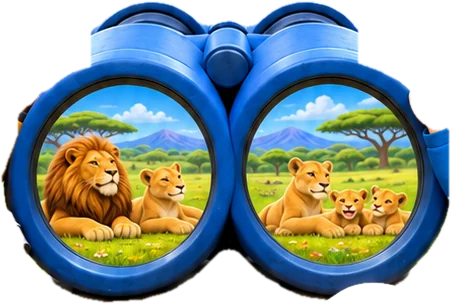
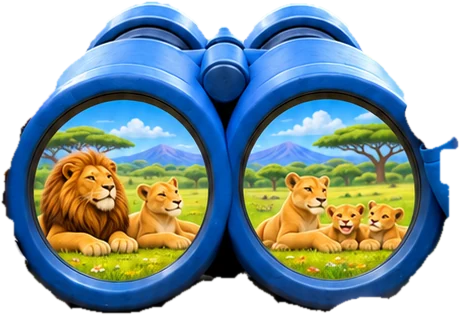
双眼鏡の切り抜きを縁に沿わせて作り直す: 奥の筒の上が途中で縦に切れていて、大きくなるたびに下の絵の双眼鏡が段とずれになって見えていた。手・帽子・袖は別の層にして動かさずに上へ重ねる（レンズの前の帽子も。レンズの絵の切り欠きマスクはやめる）

diff --git a/src/style.css b/src/style.css
@@ -317,14 +317,14 @@ button {
   /* スマホ横・PC（16:9） */
   --kv: url('/home/kv-phone-landscape.webp');
   --kv-ar: 1.7768;
-  /* 絵から切り抜いた双眼鏡（絵の幅・高さに対する割合）と、その中のレンズ（双眼鏡の幅・高さに対する割合） */
+  /* 絵から双眼鏡の縁に沿って切り抜いた双眼鏡（絵の幅・高さに対する割合）と、その中のレンズ（双眼鏡の幅・高さに対する割合）。
+     双眼鏡にかかる手・帽子・袖は別に切り抜き、動かさずに上へ重ねる（--front） */
   --bino: url('/home/kv-phone-landscape-bino.webp');
-  --bino-x: 30.38%; --bino-y: 41.45%; --bino-w: 39.47%; --bino-h: 39.53%;
-  --lens-l-x: 6.21%; --lens-l-y: 21.51%; --lens-l-w: 39.09%; --lens-l-h: 69.09%;
-  --lens-r-x: 55.00%; --lens-r-y: 21.77%; --lens-r-w: 38.64%; --lens-r-h: 68.55%;
-  /* レンズの前に帽子がかかる絵では、その部分を切り欠く（白＝見せる） */
-  --lens-l-mask: none;
-  --lens-r-mask: none;
+  --bino-x: 30.44%; --bino-y: 39.96%; --bino-w: 39.41%; --bino-h: 41.02%;
+  --lens-l-x: 6.07%; --lens-l-y: 24.35%; --lens-l-w: 39.15%; --lens-l-h: 66.58%;
+  --lens-r-x: 54.93%; --lens-r-y: 24.61%; --lens-r-w: 38.69%; --lens-r-h: 66.06%;
+  --front: url('/home/kv-phone-landscape-front.webp');
+  --front-x: 34.69%; --front-y: 63.44%; --front-w: 35.11%; --front-h: 19.13%;
   position: fixed;
   inset: 0;
   z-index: 10;
@@ -343,10 +343,11 @@ button {
     --kv: url('/home/kv-tablet-landscape.webp');
     --kv-ar: 1.3333;
     --bino: url('/home/kv-tablet-landscape-bino.webp');
-    --bino-x: 29.21%; --bino-y: 44.48%; --bino-w: 42.06%; --bino-h: 33.06%;
-    --lens-l-x: 4.93%; --lens-l-y: 24.51%; --lens-l-w: 40.72%; --lens-l-h: 69.08%;
-    --lens-r-x: 54.02%; --lens-r-y: 24.23%; --lens-r-w: 41.05%; --lens-r-h: 69.64%;
-    --lens-r-mask: url('/home/kv-tablet-landscape-lens-r-mask.png');
+    --bino-x: 29.35%; --bino-y: 43.09%; --bino-w: 41.85%; --bino-h: 34.53%;
+    --lens-l-x: 4.62%; --lens-l-y: 27.47%; --lens-l-w: 40.92%; --lens-l-h: 66.13%;
+    --lens-r-x: 53.96%; --lens-r-y: 27.20%; --lens-r-w: 41.25%; --lens-r-h: 66.67%;
+    --front: url('/home/kv-tablet-landscape-front.webp');
+    --front-x: 28.25%; --front-y: 61.51%; --front-w: 43.92%; --front-h: 17.31%;
   }
 }
 
@@ -356,11 +357,11 @@ button {
     --kv: url('/home/kv-tablet-portrait.webp');
     --kv-ar: 0.75;
     --bino: url('/home/kv-tablet-portrait-bino.webp');
-    --bino-x: 25.60%; --bino-y: 47.44%; --bino-w: 48.25%; --bino-h: 22.44%;
-    --lens-l-x: 6.11%; --lens-l-y: 24.00%; --lens-l-w: 41.22%; --lens-l-h: 66.46%;
-    --lens-r-x: 54.77%; --lens-r-y: 23.69%; --lens-r-w: 41.22%; --lens-r-h: 66.77%;
-    --lens-l-mask: url('/home/kv-tablet-portrait-lens-l-mask.png');
-    --lens-r-mask: url('/home/kv-tablet-portrait-lens-r-mask.png');
+    --bino-x: 25.87%; --bino-y: 46.34%; --bino-w: 48.53%; --bino-h: 23.69%;
+    --lens-l-x: 5.50%; --lens-l-y: 27.41%; --lens-l-w: 40.99%; --lens-l-h: 62.97%;
+    --lens-r-x: 53.89%; --lens-r-y: 27.11%; --lens-r-w: 40.99%; --lens-r-h: 63.27%;
+    --front: url('/home/kv-tablet-portrait-front.webp');
+    --front-x: 24.59%; --front-y: 57.11%; --front-w: 44.75%; --front-h: 13.74%;
   }
 }
 
@@ -370,11 +371,11 @@ button {
     --kv: url('/home/kv-phone-portrait.webp');
     --kv-ar: 0.5628;
     --bino: url('/home/kv-phone-portrait-bino.webp');
-    --bino-x: 26.04%; --bino-y: 44.62%; --bino-w: 47.93%; --bino-h: 18.18%;
-    --lens-l-x: 6.21%; --lens-l-y: 25.33%; --lens-l-w: 41.91%; --lens-l-h: 62.17%;
-    --lens-r-x: 53.22%; --lens-r-y: 25.66%; --lens-r-w: 41.24%; --lens-r-h: 61.18%;
-    --lens-l-mask: none;
-    --lens-r-mask: none;
+    --bino-x: 26.35%; --bino-y: 43.72%; --bino-w: 48.88%; --bino-h: 18.84%;
+    --lens-l-x: 5.43%; --lens-l-y: 29.21%; --lens-l-w: 41.09%; --lens-l-h: 60.00%;
+    --lens-r-x: 51.52%; --lens-r-y: 29.52%; --lens-r-w: 40.43%; --lens-r-h: 59.05%;
+    --front: url('/home/kv-phone-portrait-front.webp');
+    --front-x: 24.76%; --front-y: 48.15%; --front-w: 51.12%; --front-h: 15.37%;
   }
 }
 
@@ -470,8 +471,6 @@ button {
   top: var(--lens-l-y);
   width: var(--lens-l-w);
   height: var(--lens-l-h);
-  -webkit-mask: var(--lens-l-mask) center / 100% 100% no-repeat;
-  mask: var(--lens-l-mask) center / 100% 100% no-repeat;
 }
 
 .home-lens.r {
@@ -479,8 +478,17 @@ button {
   top: var(--lens-r-y);
   width: var(--lens-r-w);
   height: var(--lens-r-h);
-  -webkit-mask: var(--lens-r-mask) center / 100% 100% no-repeat;
-  mask: var(--lens-r-mask) center / 100% 100% no-repeat;
+}
+
+/* 双眼鏡にかかる手・帽子・袖。動かさずに双眼鏡とレンズの絵の上へ重ねる（タップは下のボタンへ通す） */
+.home-front {
+  position: absolute;
+  left: var(--front-x);
+  top: var(--front-y);
+  width: var(--front-w);
+  height: var(--front-h);
+  background: var(--front) center / 100% 100% no-repeat;
+  pointer-events: none;
 }
 
 /* 絵の上に重ねる 2 層: 元の絵と同じふちの影（上が太く、横は細く、下はほとんどない）と、左上のうすい光。

diff --git a/index.html b/index.html
@@ -19,6 +19,10 @@
     <link rel="preload" as="image" type="image/webp" href="/home/kv-tablet-portrait-bino.webp" media="(min-aspect-ratio: 13/20) and (max-aspect-ratio: 1/1)" />
     <link rel="preload" as="image" type="image/webp" href="/home/kv-tablet-landscape-bino.webp" media="(min-aspect-ratio: 1/1) and (max-aspect-ratio: 20/13)" />
     <link rel="preload" as="image" type="image/webp" href="/home/kv-phone-landscape-bino.webp" media="(min-aspect-ratio: 20/13)" />
+    <link rel="preload" as="image" type="image/webp" href="/home/kv-phone-portrait-front.webp" media="(max-aspect-ratio: 13/20)" />
+    <link rel="preload" as="image" type="image/webp" href="/home/kv-tablet-portrait-front.webp" media="(min-aspect-ratio: 13/20) and (max-aspect-ratio: 1/1)" />
+    <link rel="preload" as="image" type="image/webp" href="/home/kv-tablet-landscape-front.webp" media="(min-aspect-ratio: 1/1) and (max-aspect-ratio: 20/13)" />
+    <link rel="preload" as="image" type="image/webp" href="/home/kv-phone-landscape-front.webp" media="(min-aspect-ratio: 20/13)" />
   </head>
   <body>
     <!-- 自作 SVG アイコン。OS の絵文字は使わない -->
@@ -57,6 +61,7 @@
             <span class="home-lens r"><span class="lens-pic north"></span><span class="lens-pic jungle"></span><span class="lens-pic south"></span></span>
           </span>
         </button>
+        <span class="home-front" aria-hidden="true"></span>
       </div>
 
       <div class="home-title visually-hidden">

diff --git a/DEVLOG.md b/DEVLOG.md
@@ -376,6 +376,13 @@
 - 修正: タブレット横の生成画像が元より横1px小さかったため、元と同じ1449×1086pxに合わせた
 - 未確認: 生成画像の子ども・文字は元画像とのピクセル単位一致ではなく、画面上の目視確認
 
+## 2026-11-05 ライオン4頭のクレイアニメ風参照画像
+- 指示: 添付されたアンジー、カーラ、クレア、ライリーの4画像を、Meshyの3Dモデル生成用にクレイアニメ風へ変換
+- 生成: `artwork/meshy-clay-references/` に4枚を個別保存。個体ごとの毛色・模様・年齢感を残し、横向きの立ち姿、全身、無地の明るい背景を維持
+- 検証: 4枚を個別に目視し、全身・足・尾の見切れがないこと、クレイ風のマットな造形、個体の特徴が保たれていることを確認。出力は各1536×1024px
+- 修正: なし
+- 未確認: Meshyでの3Dモデル生成結果とメッシュ品質
+
 ## 2026-11-04 3 つのワールドの 3D の動物: トラ・ホッキョクオオカミ・オオカンガルー（夜）
 - 指示: 3D の動物を作る（D-32 ②: 代表の種から）
 - 生成: `lions.ts` の伏せの体に種の作り分けを足した（`species: 'tiger' | 'wolf'`）。トラは橙の地に胴を包む黒い縞 7 本・腿と額の縞・白い頬・黒い縁の耳・尾の輪、目の下の黒いすじは無し。オオカミは細い胴、長い鼻先、立った三角の耳、太い尾とふさふさの先、毛はクリームがかった白（雪と溶けないように）。カンガルーは体の作りが違うので `kangaroo.ts` を新しく作った（後ろ足をたたんで尾で支え、上体を起こして休む姿。長い耳がくるっと回る、首を人の方へ向ける）。`residents.ts` で、ジャングルにティガー、北の世界にフェン・ネガ・マリ、南半球にユウト・シゲコ・順子を、観察スポットの奥にサバンナ側を向けて置く。個体は種と名前で roster から引く（いない子は置かない）。返す形はライオンと同じなので、名前のラベル・双眼鏡のピン・「そばに来ました」・地図・モニターにそのまま乗る。ピンの高さは動物ごと（`headHeight`）
@@ -465,4 +472,11 @@
 - 原因: レンズの絵の円を「青い部分に囲まれた穴」の面積から出し、その 0.98 倍にしていた。元の絵のレンズは真円の内側に、上が太く下ほど細い暗いふち（くぼみの影）がある。景色が見えている円そのものが下にずれているので、影の細い下側で元の景色（草）が帯になって見えていた。そこへ足したガラスの内側の影の輪が重なって、ふちが二重に見えた。切り替えの途中は、北・ジャングル・下のライオンの 3 枚が同時に透けて濁っていた
 - 修正: 中心から外へ走査して青いふちが始まる半径を 240 方向で取り、外れ値を除いて円を当てはめた（スマホ縦の左は中心 (367.4, 917.2)・半径 93.2）。絵はその円＋0.8px まで覆い、元の絵と同じ「上が太く、横は細く、下はほとんどない」ふちの影を、ずらした円のグラデーションで絵と一緒に重ねる（ライオンの時は元の絵の影だけ）。タブレット縦の左右とタブレット横の右は、手前の帽子がレンズにかかるので、帽子の色の塊のうちふちの外から入り込んでいるものを切り欠くマスク（`kv-*-lens-*-mask.png`）を作った。切り替えは、次の絵が上の層で出きるまで前の絵を残し、重なるのを 2 枚だけにした（南半球だけはゆっくり消えてライオンに戻る）
 - 検証: dev サーバーで 393×660・820×1180・1180×820・852×393。動きを止めて時刻を合わせ、ライオンの時と北・ジャングル・南半球の時でレンズのふちの見え方がそろうこと、タブレット縦で帽子がレンズの前に残ること、切り替えの途中に重なるのが 2 枚だけ（不透明度 1 と 0.5）なことを見た。コンソールにエラーなし、`npm run build` 通過
+- 未確認: iPhone 実機
+
+## 2026-11-05 双眼鏡の切り抜きを縁に沿わせて作り直す
+- 指示: 双眼鏡が大きくなる時に外枠がずれて見える（スクリーンショットつき）。枠線に沿って切り取ってほしい
+- 原因: 前の修正はレンズの内側のふちだけで、双眼鏡そのものの切り抜きを直していなかった（指摘を取り違えた）。切り抜きは「青い色の塊」と「列ごとのすき間埋め」で作っていて、奥の筒の上の面（空に近い水色）が途中で縦にまっすぐ切れていた。切り残した所は下の絵のまま止まっているので、大きくなるたびに段とずれが出ていた
+- 修正: 切り抜きを 2 つのやり方で作って合わせた。①色の勾配の上の流域分割（種は双眼鏡の芯・まわりの背景・手前のもの）②色の分類器（ランダムフォレスト。双眼鏡の芯とまわりの背景で学習）で「双眼鏡らしさ」を出し、その勾配も足して流域分割。①は横の縁、②は奥の筒と真ん中のつまみの上の縁が正確だった。タブレット縦は右の子の青い上着と左の子の服を、背景の箱で手で分けた。双眼鏡にかかる手・帽子・袖（スマホ縦は右の子の袖を箱で指定）は別の層に切り抜き、動かさずに双眼鏡とレンズの絵の上へ重ねる（`kv-*-front.webp`）。レンズの前の帽子もこの層に入れたので、レンズの絵を切り欠くマスク（`kv-*-lens-*-mask.png`）はやめた
+- 検証: 4 枚それぞれ、1.035 倍にした切り抜きと手前の層を元の絵に重ねた拡大図で、上の縁・横の縁に段や二重の縁がないことを見た。dev サーバーで 393×700・820×1180・1180×820・852×393 を、動きを止めていちばん大きい時に合わせて確認（スマホ縦はユーザーの画面と同じ右の奥の筒の上）。1 倍の時は双眼鏡と手前の層を出しても消しても見分けがつかない。手前の層の上からでも双眼鏡のタップで入れる。コンソールにエラーなし、`npm run build` 通過
 - 未確認: iPhone 実機
